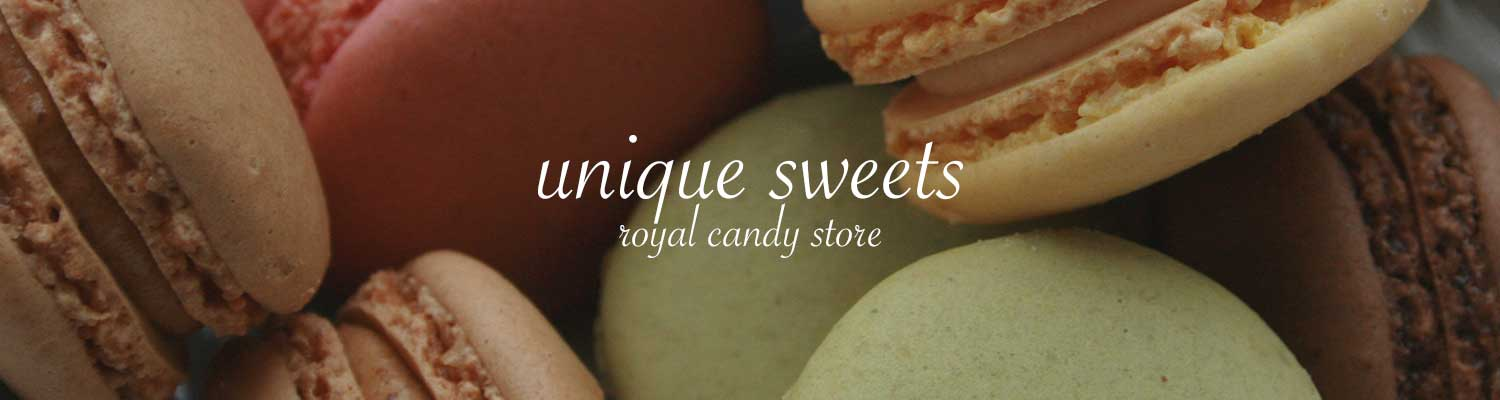
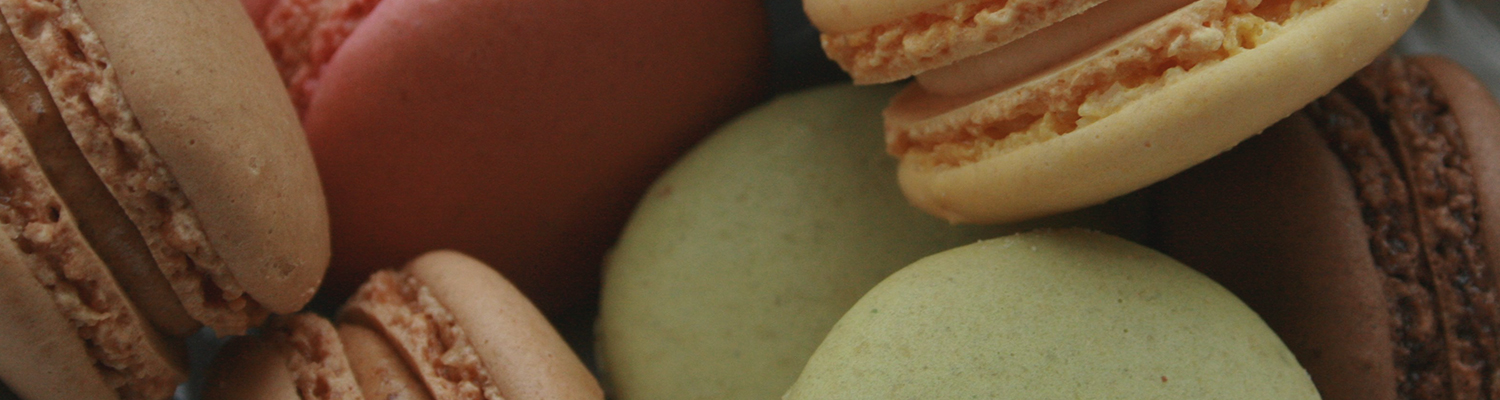
conditer +adaptation

Changed region(s): [[0.3373, 0.36, 0.644, 0.54], [0.3987, 0.57, 0.5827, 0.63], [0.3987, 0.33, 0.4293, 0.36]]

diff --git a/css/adaptation_nikolay.css b/css/adaptation_nikolay.css
@@ -235,6 +235,36 @@
     display: none;
   }
   /*/footer*/
+  .cond-wrapp .cond-align span {
+    font-size: 16px;
+    letter-spacing: 3.1px;
+  }
+  .cond-wrapp .cond-align {
+    padding: 51px 0 111px;
+  }
+  .cond-wrapp .cond-align .cond-title {
+    padding-bottom: 86px;
+  }
+  .cond-wrapp .cond-align .cond-block:nth-child(3) {
+    padding-left: 32px;
+  }
+  .cond-wrapp .cond-align .cond-block .text-block {
+    width: 100%;
+  }
+  .title-photo.conditer .logo {
+    -webkit-transform: translate(-39%, -49%);
+    -moz-transform: translate(-39%, -49%);
+    -ms-transform: translate(-39%, -49%);
+    -o-transform: translate(-39%, -49%);
+    transform: translate(-39%, -49%);
+  }
+  .title-photo.conditer .logo img {
+    width: 79%;
+  }
+  .bread-img {
+    overflow: hidden;
+    max-height: 250px;
+  }
 }
 
 @media screen and (max-width: 800px) {
@@ -271,18 +301,22 @@
   /*/send*/
   /*conditer*/
   .cond-wrapp .cond-align {
-    padding: 6.8% 0 4%;
+    padding: 6.8% 0 23px;
   }
   .cond-wrapp .cond-align .cond-title {
-    padding-bottom: 8%;
+    padding-bottom: 7.5%;
   }
   .cond-wrapp .cond-align .cond-block {
     max-width: 100%;
-    padding-bottom: 8%;
+    padding-bottom: 8.5%;
     padding-left: 10px;
   }
   .cond-wrapp .cond-align .cond-block .text-block {
-    width: 60%;
+    width: 54%;
+  }
+  .cond-wrapp .cond-align .cond-block .text-block span {
+    font-weight: 400;
+    letter-spacing: 0;
   }
   .cond-wrapp .cond-align .cond-block:nth-child(3) {
     padding-left: 10px;
@@ -335,6 +369,20 @@
   }
   .special {
     padding: 11px 0;
+  }
+  .title-photo.conditer .logo {
+    -webkit-transform: translate(-32%, -49%);
+    -moz-transform: translate(-32%, -49%);
+    -ms-transform: translate(-32%, -49%);
+    -o-transform: translate(-32%, -49%);
+    transform: translate(-32%, -49%);
+  }
+  .title-photo.conditer .logo img {
+    width: 64%;
+  }
+  .bread-img {
+    overflow: hidden;
+    max-height: 200px;
   }
 }
 
@@ -410,8 +458,11 @@
   .title-photo.send .title-photo-align .bread-phone span {
     font-size: 16px;
   }
-  .title-photo.about, .title-photo.action, .title-photo.catalog, .title-photo.conditer, .title-photo.conditer-bread, .title-photo.conditer-stock, .title-photo.contacts {
+  .title-photo.about, .title-photo.action, .title-photo.catalog, .title-photo.conditer-bread, .title-photo.conditer-stock, .title-photo.contacts {
     padding-bottom: 70%;
+  }
+  .title-photo.conditer {
+    padding-bottom: 173px;
   }
   .title-photo.action .title-photo-align .bread-img img, .title-photo.catalog .title-photo-align .bread-img img, .title-photo.conditer .title-photo-align .bread-img img, .title-photo.conditer-bread .title-photo-align .bread-img img, .title-photo.conditer-stock .title-photo-align .bread-img img, .title-photo.contacts .title-photo-align .bread-img img {
     width: 711px;
@@ -441,5 +492,52 @@
   .footer-wrapp-main .main-block .socials-head {
     padding-bottom: 60px;
     padding-top: 26px;
+  }
+  .cond-wrapp .cond-align span {
+    font-size: 14px;
+    letter-spacing: 2.8px;
+  }
+  .cond-wrapp .cond-align {
+    padding: 5px 0 1px;
+  }
+  .cond-wrapp .cond-align .cond-block {
+    padding-left: 0;
+    padding-bottom: 36px;
+  }
+  .cond-wrapp .cond-align .cond-block .img-block {
+    width: 55%;
+    margin: 0 auto;
+    padding-bottom: 26px;
+  }
+  .cond-wrapp .cond-align .cond-title {
+    padding-bottom: 36px;
+  }
+  .cond-wrapp .cond-align .cond-block .title-block span {
+    font-size: 12px;
+    letter-spacing: 2.5px;
+  }
+  .cond-wrapp .cond-align .cond-block .title-block {
+    padding-bottom: 8px;
+  }
+  .cond-wrapp .cond-align .cond-block .text-block span {
+    font-size: 12px;
+    line-height: 18px;
+  }
+  .cond-wrapp .cond-align .cond-block:nth-child(3) {
+    padding-left: 0px;
+  }
+  .title-photo.conditer .logo {
+    -webkit-transform: translate(-34.5%, -49%);
+    -moz-transform: translate(-34.5%, -49%);
+    -ms-transform: translate(-34.5%, -49%);
+    -o-transform: translate(-34.5%, -49%);
+    transform: translate(-34.5%, -49%);
+  }
+  .title-photo.conditer .logo img {
+    width: 67%;
+  }
+  .bread-img {
+    overflow: hidden;
+    max-height: 140px;
   }
 }

diff --git a/sass/adaptation_nikolay.scss b/sass/adaptation_nikolay.scss
@@ -168,6 +168,13 @@
         }
         .navi-wrapp-main{display: none;}
     /*/footer*/
+    .cond-wrapp .cond-align span {font-size: 16px;letter-spacing: 3.1px;}
+    .cond-wrapp .cond-align {    padding: 51px 0 111px;}
+    .cond-wrapp .cond-align .cond-title {padding-bottom: 86px;}
+    .cond-wrapp .cond-align .cond-block:nth-child(3) {padding-left: 32px;}
+    .cond-wrapp .cond-align .cond-block .text-block {width: 100%;}
+    .title-photo{&.conditer{.logo{transform:translate(-39%, -49%);img{    width: 79%;}}}}
+    .bread-img{    overflow: hidden;    max-height: 250px;}
 }
 @media screen and (max-width: 800px){
     /*send*/
@@ -197,10 +204,12 @@
 
     /*conditer*/
         .cond-wrapp{
-            .cond-align{padding: 6.8% 0 4%;
-                .cond-title{padding-bottom: 8%;}
-                .cond-block{max-width: 100%;padding-bottom: 8%;padding-left: 10px;
-                    .text-block{    width: 60%;}
+            .cond-align{padding: 6.8% 0 23px;
+                .cond-title{padding-bottom: 7.5%;}
+                .cond-block{max-width: 100%;padding-bottom: 8.5%;padding-left: 10px;
+                    .text-block{    width: 54%;
+                        span{font-weight: 400; letter-spacing: 0;}
+                    }
                     &:nth-child(3) { padding-left: 10px;}
                 }
             }
@@ -235,6 +244,8 @@
     .special-wrapper{.special-align{.special-title{margin-bottom: 8.2%;}}}
     .about-us{display:none;}
     .special{ padding: 11px 0;}
+    .title-photo{&.conditer{.logo{transform:translate(-32%, -49%);img{    width: 64%;}}}}
+    .bread-img{    overflow: hidden;    max-height: 200px;}
 }
 @media screen and (max-width: 767px){
 
@@ -288,7 +299,8 @@
                     }
                 }
             }
-            &.about, &.action, &.catalog, &.conditer, &.conditer-bread, &.conditer-stock, &.contacts {padding-bottom: 70%;}
+            &.about, &.action, &.catalog,  &.conditer-bread, &.conditer-stock, &.contacts {padding-bottom: 70%;}
+            &.conditer{padding-bottom: 173px;}
             &.action, &.catalog, &.conditer, &.conditer-bread, &.conditer-stock, &.contacts{.title-photo-align{.bread-img{img{width: 711px;}}}}
         }
     /*/send*/
@@ -304,6 +316,18 @@
     }
     .footer-wrapp-main .main-block .socials-head p {font-size: 10px; letter-spacing: 1px;    padding-bottom: 30px;}
     .footer-wrapp-main .main-block .socials-head {    padding-bottom: 60px;padding-top: 26px;}
+    .cond-wrapp .cond-align span {    font-size: 14px;    letter-spacing: 2.8px;}
+    .cond-wrapp .cond-align {    padding: 5px 0 1px;}
+    .cond-wrapp .cond-align .cond-block{padding-left: 0;padding-bottom: 36px;}
+    .cond-wrapp .cond-align .cond-block .img-block {width: 55%; margin: 0 auto;    padding-bottom: 26px;}
+    .cond-wrapp .cond-align .cond-title {    padding-bottom: 36px;}
+    .cond-wrapp .cond-align .cond-block .title-block span {    font-size: 12px;    letter-spacing: 2.5px;}
+    .cond-wrapp .cond-align .cond-block .title-block {    padding-bottom: 8px;}
+    .cond-wrapp .cond-align .cond-block .text-block span {       font-size: 12px;    line-height: 18px;}
+    .cond-wrapp .cond-align .cond-block:nth-child(3) {    padding-left: 0px;}
+    .title-photo{&.conditer{.logo{transform:translate(-34.5%, -49%);img{    width: 67%;}}}}
+    .bread-img{    overflow: hidden;    max-height: 140px;}
+
 }
 @media screen and (max-width: 320px){
 

diff --git a/css/style_main.css b/css/style_main.css
@@ -401,10 +401,10 @@
   -ms-transform-origin: 0 50%;
   -o-transform-origin: 0 50%;
   transform-origin: 0 50%;
-  -webkit-transition: left 300ms ease, -webkit-transform 300ms ease, width 300ms ease, top 300ms ease, bottom 300ms ease;
-  -moz-transition: left 300ms ease, -moz-transform 300ms ease, width 300ms ease, top 300ms ease, bottom 300ms ease;
-  -o-transition: left 300ms ease, -o-transform 300ms ease, width 300ms ease, top 300ms ease, bottom 300ms ease;
-  transition: left 300ms ease, transform 300ms ease, width 300ms ease, top 300ms ease, bottom 300ms ease;
+  -webkit-transition: left 300ms ease, -webkit-transform 300ms ease,width 300ms ease, top 300ms ease, bottom 300ms ease;
+  -moz-transition: left 300ms ease, -moz-transform 300ms ease,width 300ms ease, top 300ms ease, bottom 300ms ease;
+  -o-transition: left 300ms ease, -o-transform 300ms ease,width 300ms ease, top 300ms ease, bottom 300ms ease;
+  transition: left 300ms ease, transform 300ms ease,width 300ms ease, top 300ms ease, bottom 300ms ease;
 }
 
 .sendwich-icon span:before {

diff --git a/css/radion.css b/css/radion.css
@@ -62,10 +62,10 @@
   padding: 24px 0px;
   vertical-align: middle;
   line-height: 12px;
-  -webkit-transition: all linear 0.2s;
-  -moz-transition: all linear 0.2s;
-  -o-transition: all linear 0.2s;
-  transition: all linear 0.2s;
+  -webkit-transition: all linear .2s;
+  -moz-transition: all linear .2s;
+  -o-transition: all linear .2s;
+  transition: all linear .2s;
   -webkit-border-radius: 3px;
   -moz-border-radius: 3px;
   border-radius: 3px;
@@ -83,10 +83,10 @@
 .look_and_buy span {
   line-height: 12px;
   vertical-align: text-top;
-  -webkit-transition: all linear 0.2s;
-  -moz-transition: all linear 0.2s;
-  -o-transition: all linear 0.2s;
-  transition: all linear 0.2s;
+  -webkit-transition: all linear .2s;
+  -moz-transition: all linear .2s;
+  -o-transition: all linear .2s;
+  transition: all linear .2s;
   position: relative;
 }
 

diff --git a/css/nikolay.css b/css/nikolay.css
@@ -153,6 +153,14 @@
   line-height: 30px;
 }
 
+.title-photo.conditer .logo {
+  -webkit-transform: translate(-50%, -52%);
+  -moz-transform: translate(-50%, -52%);
+  -ms-transform: translate(-50%, -52%);
+  -o-transform: translate(-50%, -52%);
+  transform: translate(-50%, -52%);
+}
+
 /*/conditer -choise*/
 /*title photo*/
 /*send*/
@@ -160,6 +168,18 @@
   max-width: 1500px;
   margin: 0 auto;
   width: 100%;
+  position: relative;
+}
+
+.title-photo .logo {
+  position: absolute;
+  left: 50%;
+  top: 50%;
+  -webkit-transform: translate(-50%, -50%);
+  -moz-transform: translate(-50%, -50%);
+  -ms-transform: translate(-50%, -50%);
+  -o-transform: translate(-50%, -50%);
+  transform: translate(-50%, -50%);
 }
 
 .title-photo.send {

diff --git a/sass/nikolay.scss b/sass/nikolay.scss
@@ -56,12 +56,13 @@
                 }
             }
         }
-
+        .title-photo{&.conditer{.logo{transform:translate(-50%, -52%);}}}
 /*/conditer -choise*/
 
 /*title photo*/
     /*send*/
-    .title-photo{ max-width: 1500px;    margin: 0 auto; width: 100%;
+    .title-photo{ max-width: 1500px;    margin: 0 auto; width: 100%; position: relative;
+        .logo{position:absolute; left:50%; top:50%; transform:translate(-50%, -50%);}
         &.send{    padding-bottom: 16%;
             .title-photo-align{position: relative; text-align: center;
                 span{color:#fff; font-size: 24px;font-family: 'Merel';font-weight: 500;line-height: 30px;}

diff --git a/conditer.php b/conditer.php
@@ -2,7 +2,10 @@
 
         <div class="title-photo conditer">
             <div class="title-photo-align">
-                <div class="bread-img"><img src="images/braed-conditer.jpg" alt=""></div>
+                <div class="bread-img">
+                    <img src="images/braed-conditer.jpg" alt="">
+                    <div class="logo"><img src="images/braed-conditer-logo.png" alt=""></div>
+                </div>
             </div>
         </div>
         <? partial('conditier'); ?>
